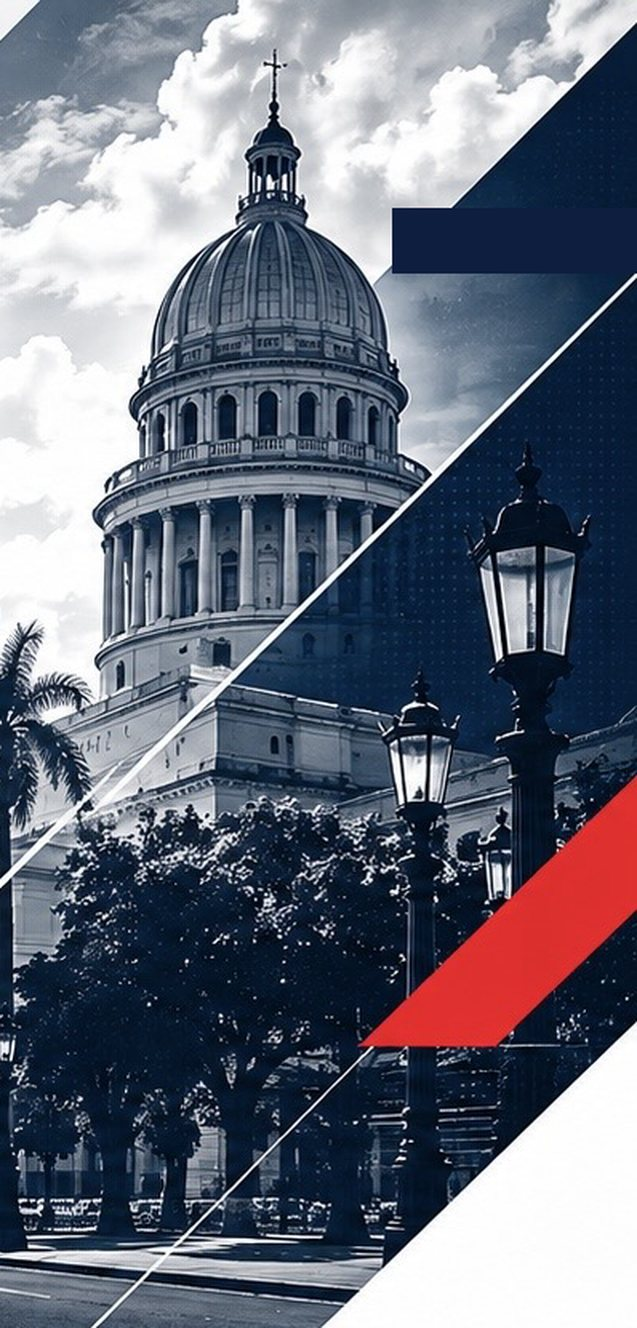
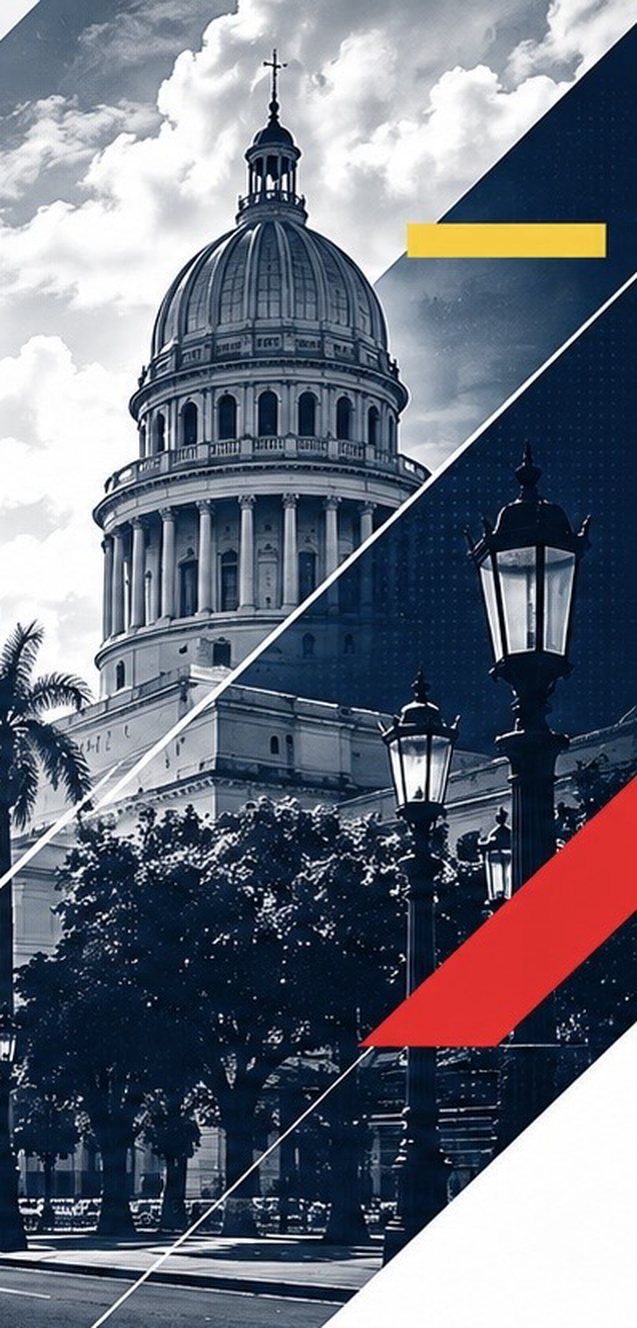
Rediseño v2: logotipo tipográfico, ornamentos y textos de la Carta
Claude-Session: https://claude.ai/code/session_01NeHkYtKpNTVMo5tPgtXgnp

Changed region(s): [[0.5965, 0.1544, 0.9545, 0.2161]]

diff --git a/web/src/styles/global.css b/web/src/styles/global.css
@@ -64,8 +64,11 @@ h3 { font-size: 1.12rem; line-height: 1.25; margin: 0 0 6px; font-weight: 700; }
 .cabecera .contenedor { display: flex; align-items: center; justify-content: space-between; gap: 16px; min-height: 70px; }
 .marca { display: inline-flex; align-items: center; gap: 10px; text-decoration: none; color: var(--marino); }
 .marca:hover { color: var(--marino); }
-.marca .sello { width: 44px; height: 44px; flex: none; }
-.marca .nombre { font-family: var(--display); font-weight: 800; font-size: 1.45rem; letter-spacing: .01em; line-height: 1; white-space: nowrap; }
+.logo { display: grid; font-family: "Montserrat", var(--fuente); font-weight: 900; line-height: .84; letter-spacing: -.035em; font-size: 1.42rem; text-transform: uppercase; }
+.logo .l1 { color: var(--marino); }
+.logo .l2 { color: var(--rojo); }
+.pie .logo .l1 { color: #fff; }
+.pie .logo { font-size: 2rem; }
 .nav { display: flex; gap: 2px; }
 .nav a {
   position: relative; color: var(--marino); text-decoration: none; font-weight: 600; font-size: 1rem;
@@ -87,7 +90,7 @@ h3 { font-size: 1.12rem; line-height: 1.25; margin: 0 0 6px; font-weight: 700; }
   .cabecera.abierta .nav { display: flex; }
   .nav a { padding: 12px 4px; border-top: 1px solid var(--borde); }
   .nav a::after { left: 4px; right: auto; width: 40px; }
-  .marca .nombre { font-size: 1.25rem; }
+  .logo { font-size: 1.25rem; }
 }
 
 /* sub-navegación del banco */
@@ -113,86 +116,136 @@ h3 { font-size: 1.12rem; line-height: 1.25; margin: 0 0 6px; font-weight: 700; }
 .enlace-flecha { font-weight: 700; text-transform: uppercase; font-size: .88rem; letter-spacing: .04em; color: var(--rojo); text-decoration: none; display: inline-flex; gap: 8px; align-items: center; }
 .enlace-flecha:hover { color: var(--rojo-osc); }
 
+/* ---------- ornamentos reutilizables ---------- */
+.puntos { background-image: radial-gradient(rgba(255,255,255,.22) 1.1px, transparent 1.6px); background-size: 7px 7px; }
+.puntos-oscuros { background-image: radial-gradient(rgba(11,29,63,.16) 1.1px, transparent 1.6px); background-size: 7px 7px; }
+.orn { position: absolute; display: block; pointer-events: none; z-index: 3; }
+.orn.bar-r { height: 10px; background: var(--rojo); }
+.orn.bar-a { height: 8px; background: var(--amarillo); }
+.orn.bar-b { height: 4px; background: #fff; }
+.orn.cuad { background: var(--marino); }
+.orn.raya { height: 2px; background: rgba(255,255,255,.75); transform-origin: left center; }
+.orn.raya.osc { background: rgba(11,29,63,.18); }
+.kicker { display: inline-flex; align-items: center; gap: 10px; font-weight: 700; font-size: .8rem; letter-spacing: .14em; text-transform: uppercase; color: var(--rojo); margin: 0 0 10px; }
+.kicker::before { content: ""; width: 34px; height: 4px; background: var(--rojo); }
+.kicker.claro { color: #fff; }
+.kicker.claro::before { background: var(--amarillo); }
+
 /* ---------- portada (hero) ---------- */
-.hero { position: relative; background: var(--superficie); overflow: hidden; border-bottom: 1px solid var(--borde); }
-.hero .contenedor { position: relative; display: grid; grid-template-columns: minmax(0, 1.05fr) minmax(0, .95fr); min-height: 540px; align-items: center; }
-.hero-texto { position: relative; z-index: 2; padding: 56px 24px 56px 0; }
-.hero-texto h1 { font-size: clamp(3.2rem, 8.4vw, 6.6rem); line-height: .86; margin: 0 0 18px; }
-.hero-texto .sub { font-family: var(--display); font-weight: 700; text-transform: uppercase; font-size: clamp(1.05rem, 2vw, 1.4rem); color: var(--marino); display: flex; flex-wrap: wrap; gap: 6px 14px; align-items: center; margin: 0 0 18px; }
+.hero { position: relative; background: var(--superficie); overflow: hidden; border-bottom: 1px solid var(--borde); isolation: isolate; }
+.hero::before { content: ""; position: absolute; left: -6%; bottom: -1px; width: 52%; height: 120px; background: linear-gradient(100deg, transparent 0 18%, #e9ecf2 18% 40%, transparent 40% 44%, #f1f3f7 44% 70%, transparent 70%); clip-path: polygon(10% 100%, 30% 0, 100% 0, 80% 100%); opacity: .9; z-index: 0; }
+.hero .contenedor { position: relative; display: grid; grid-template-columns: minmax(0, 1.05fr) minmax(0, .95fr); min-height: 600px; align-items: center; }
+.hero-texto { position: relative; z-index: 4; padding: 64px 24px 64px 0; }
+.hero-texto h1 { font-size: clamp(3.6rem, 9.6vw, 8rem); line-height: .84; margin: 0 0 22px; letter-spacing: -.01em; }
+.hero-texto h1 .mas { color: var(--rojo); display: inline-block; transform: translateY(-.04em); }
+.hero-texto .sub { font-family: var(--display); font-weight: 700; text-transform: uppercase; font-size: clamp(1.05rem, 1.9vw, 1.38rem); color: var(--marino); display: flex; flex-wrap: wrap; gap: 6px 14px; align-items: center; margin: 0 0 20px; }
 .hero-texto .sub .punto { width: 8px; height: 8px; border-radius: 50%; background: var(--rojo); display: inline-block; }
-.hero-texto p { font-size: 1.18rem; max-width: 46ch; color: var(--texto-2); margin: 0; }
-.hero-imagen { position: absolute; top: 0; right: 0; bottom: 0; width: 50%; z-index: 1; }
-.hero-imagen img { width: 100%; height: 100%; object-fit: cover; object-position: center 30%; clip-path: polygon(22% 0, 100% 0, 100% 100%, 0 100%); }
-.hero-imagen::before { content: ""; position: absolute; inset: 0; background: linear-gradient(115deg, transparent 0 60%, rgba(11, 29, 63, .9) 60% 100%); z-index: 1; pointer-events: none; }
-.hero-imagen .lista-vertical { position: absolute; right: 28px; top: 50%; transform: translateY(-50%); z-index: 2; color: #fff; font-family: var(--display); font-weight: 700; text-transform: uppercase; font-size: 1.15rem; line-height: 1.3; letter-spacing: .03em; margin: 0; padding: 0; list-style: none; }
-.hero-imagen .lista-vertical::after { content: ""; display: block; width: 46px; height: 5px; background: var(--rojo); margin-top: 12px; }
-.franja { position: absolute; z-index: 3; display: block; }
-.franja.r1 { width: 80px; height: 10px; background: var(--rojo); left: 51%; top: 22%; }
-.franja.a1 { width: 120px; height: 8px; background: var(--amarillo); right: 7%; top: 9%; }
-.franja.a2 { width: 64px; height: 8px; background: var(--amarillo); left: 47%; bottom: 13%; }
-.franja.n1 { width: 26px; height: 26px; background: var(--marino); left: 53%; bottom: 21%; }
+.hero-texto .lema-carta { font-family: var(--display); font-weight: 800; text-transform: uppercase; font-size: clamp(1.25rem, 2.2vw, 1.6rem); line-height: 1.05; color: var(--marino); margin: 0 0 14px; }
+.hero-texto .lema-carta span { color: var(--rojo); }
+.hero-texto p { font-size: 1.12rem; max-width: 48ch; color: var(--texto-2); margin: 0; }
+.hero-arte { position: absolute; top: 0; right: 0; bottom: 0; width: 54%; z-index: 1; }
+.hero-arte .foto { position: absolute; inset: 0; clip-path: polygon(26% 0, 100% 0, 100% 100%, 0 100%); overflow: hidden; }
+.hero-arte .foto img { width: 100%; height: 100%; object-fit: cover; object-position: 30% 22%; filter: grayscale(1) contrast(1.08) brightness(1.02); }
+.hero-arte .foto::after { content: ""; position: absolute; inset: 0; background: linear-gradient(180deg, rgba(11,29,63,.05), rgba(11,29,63,.35)); }
+.hero-arte .panel-marino { position: absolute; top: 0; bottom: 0; right: 0; width: 46%; background-color: rgba(11,29,63,.93); clip-path: polygon(58% 0, 100% 0, 100% 100%, 0 100%); }
+.hero-arte .franja-gris { position: absolute; top: 0; bottom: 0; left: 12%; width: 22%; background: linear-gradient(180deg, rgba(255,255,255,.55), rgba(255,255,255,.15)); clip-path: polygon(70% 0, 100% 0, 30% 100%, 0 100%); mix-blend-mode: screen; }
+.hero-arte .paralelo-rojo { position: absolute; right: 0; bottom: 14%; width: 26%; height: 15%; background: var(--rojo); clip-path: polygon(45% 0, 100% 0, 100% 100%, 0 100%); }
+.hero-arte .paralelo-blanco { position: absolute; left: 0; bottom: 0; width: 42%; height: 28%; background: var(--superficie); clip-path: polygon(0 100%, 62% 0, 100% 0, 38% 100%); opacity: .95; }
+.hero-arte .lista-vertical { position: absolute; right: 30px; top: 50%; transform: translateY(-50%); z-index: 4; color: #fff; font-family: var(--display); font-weight: 800; text-transform: uppercase; font-size: 1.25rem; line-height: 1.25; letter-spacing: .03em; margin: 0; padding: 0; list-style: none; text-align: left; }
+.hero-arte .lista-vertical::after { content: ""; display: block; width: 46px; height: 5px; background: var(--rojo); margin-top: 14px; }
 @media (max-width: 860px) {
   .hero .contenedor { grid-template-columns: 1fr; min-height: 0; }
-  .hero-texto { padding: 36px 0 28px; }
-  .hero-imagen { position: relative; width: auto; height: 300px; margin: 0 -16px; }
-  .hero-imagen img { clip-path: polygon(0 12%, 100% 0, 100% 100%, 0 100%); }
-  .hero-imagen::before { background: linear-gradient(115deg, transparent 0 62%, rgba(11, 29, 63, .88) 62% 100%); }
-  .hero-imagen .lista-vertical { font-size: .8rem; right: 14px; }
-  .franja { display: none; }
+  .hero-texto { padding: 40px 0 30px; }
+  .hero-arte { position: relative; width: auto; height: 340px; }
+  .hero-arte .foto { clip-path: polygon(0 10%, 100% 0, 100% 100%, 0 100%); }
+  .hero-arte .lista-vertical { font-size: .95rem; right: 16px; }
+  .hero .orn.escritorio, .hero::before { display: none; }
 }
 
+/* ---------- principio VOZ + VOTO ---------- */
+.principio { display: grid; grid-template-columns: minmax(0, 1fr) auto minmax(0, 1fr); gap: 0; align-items: stretch; margin-top: 8px; }
+.principio .col { background: var(--superficie); padding: 30px 30px 28px; position: relative; overflow: hidden; border-top: 6px solid var(--marino); }
+.principio .col.voto { border-top-color: var(--rojo); }
+.principio .col h3 { font-family: var(--display); font-weight: 800; font-size: 3.4rem; line-height: .9; margin: 0 0 10px; color: var(--marino); }
+.principio .col.voto h3 { color: var(--rojo); }
+.principio .col p { margin: 0; color: var(--texto-2); font-size: 1.05rem; }
+.principio .col::after { content: ""; position: absolute; right: -30px; bottom: -30px; width: 140px; height: 140px; background-image: radial-gradient(rgba(11,29,63,.14) 1.1px, transparent 1.6px); background-size: 7px 7px; transform: rotate(45deg); }
+.principio .signo { display: grid; place-items: center; width: 74px; background: var(--rojo); color: #fff; font-family: var(--display); font-weight: 800; font-size: 3.4rem; }
+@media (max-width: 760px) { .principio { grid-template-columns: 1fr; } .principio .signo { width: auto; height: 54px; font-size: 2.4rem; } }
+.nota-principio { margin: 16px 0 0; font-family: var(--display); font-weight: 700; text-transform: uppercase; font-size: 1.15rem; color: var(--marino); max-width: 60ch; }
+
 /* cabecera de sección (páginas interiores) */
-.banda { background: var(--superficie); border-bottom: 1px solid var(--borde); position: relative; overflow: hidden; }
-.banda .contenedor { position: relative; padding-top: 44px; padding-bottom: 40px; }
-.banda h1 { font-size: clamp(2.6rem, 7vw, 4.8rem); margin: 0 0 6px; }
-.banda .lema { font-family: var(--display); font-weight: 700; text-transform: uppercase; color: var(--marino); font-size: 1.2rem; margin: 0 0 14px; letter-spacing: .02em; }
-.banda-fondo { position: absolute; right: 0; top: 0; bottom: 0; width: 40%; background: var(--marino); clip-path: polygon(30% 0, 100% 0, 100% 100%, 0 100%); }
-.banda-fondo img { width: 100%; height: 100%; object-fit: cover; opacity: .55; filter: grayscale(.2); }
-.banda-fondo::after { content: ""; position: absolute; left: 22%; top: 30px; width: 90px; height: 9px; background: var(--rojo); }
-.banda-fondo .texto-lateral { position: absolute; right: 28px; bottom: 32px; color: #fff; font-family: var(--display); font-weight: 700; text-transform: uppercase; font-size: 1.15rem; line-height: 1.2; max-width: 14ch; text-align: right; }
-.banda .contenido-banda { position: relative; z-index: 2; max-width: 58%; }
-.banda .cifra-grande { font-family: var(--display); font-weight: 800; font-size: 4rem; line-height: .9; color: var(--marino); margin-top: 10px; }
-.banda .cifra-grande small { display: block; font-size: 1.05rem; letter-spacing: .04em; }
-.banda .cifra-grande::before { content: ""; display: inline-block; width: 6px; height: 46px; background: var(--rojo); transform: skewX(-18deg); margin-right: 10px; vertical-align: -4px; }
+.banda { background: var(--superficie); border-bottom: 1px solid var(--borde); position: relative; overflow: hidden; isolation: isolate; }
+.banda .contenedor { position: relative; padding-top: 48px; padding-bottom: 44px; min-height: 340px; display: flex; align-items: center; }
+.banda h1 { font-size: clamp(2.8rem, 7.4vw, 5.4rem); line-height: .86; margin: 0 0 10px; }
+.banda .lema { font-family: var(--display); font-weight: 700; text-transform: uppercase; color: var(--marino); font-size: 1.22rem; margin: 0 0 14px; letter-spacing: .02em; }
+.banda-fondo { position: absolute; right: 0; top: 0; bottom: 0; width: 44%; z-index: 0; }
+.banda-fondo .foto { position: absolute; inset: 0; clip-path: polygon(30% 0, 100% 0, 100% 100%, 0 100%); overflow: hidden; background: var(--marino); }
+.banda-fondo .foto img { width: 100%; height: 100%; object-fit: cover; filter: grayscale(1) contrast(1.05); opacity: .8; }
+.banda-fondo .panel-marino { position: absolute; top: 0; bottom: 0; right: 0; width: 44%; background-color: rgba(11,29,63,.92); clip-path: polygon(52% 0, 100% 0, 100% 100%, 0 100%); }
+.banda-fondo .franja-gris { position: absolute; top: 0; bottom: 0; left: 18%; width: 18%; background: rgba(255,255,255,.45); clip-path: polygon(70% 0, 100% 0, 30% 100%, 0 100%); }
+.banda-fondo .texto-lateral { position: absolute; right: 26px; top: 50%; transform: translateY(-50%); z-index: 3; color: #fff; font-family: var(--display); font-weight: 800; text-transform: uppercase; font-size: 1.15rem; line-height: 1.22; margin: 0; padding: 0; list-style: none; }
+.banda-fondo .texto-lateral::after { content: ""; display: block; width: 40px; height: 5px; background: var(--rojo); margin-top: 12px; }
+.banda .contenido-banda { position: relative; z-index: 2; max-width: 56%; }
+.banda .cifra-grande { font-family: var(--display); font-weight: 800; font-size: 4.4rem; line-height: .9; color: var(--marino); margin-top: 12px; display: flex; align-items: flex-end; gap: 12px; }
+.banda .cifra-grande::before { content: ""; width: 7px; height: 60px; background: var(--rojo); transform: skewX(-18deg); }
+.banda .cifra-grande small { display: block; font-size: 1.05rem; letter-spacing: .04em; padding-bottom: 6px; }
 @media (max-width: 760px) {
-  .banda-fondo { position: relative; width: auto; height: 120px; margin: 0; clip-path: polygon(0 18%, 100% 0, 100% 100%, 0 100%); }
-  .banda-fondo .texto-lateral { display: none; }
+  .banda .contenedor { min-height: 0; display: block; padding-bottom: 28px; }
+  .banda-fondo { position: relative; width: auto; height: 160px; }
+  .banda-fondo .foto { clip-path: polygon(0 16%, 100% 0, 100% 100%, 0 100%); }
+  .banda-fondo .texto-lateral { font-size: .9rem; right: 14px; }
   .banda .contenido-banda { max-width: none; }
-  .banda .contenedor { padding-bottom: 28px; }
+  .banda .orn { display: none; }
 }
 
 /* ---------- pilares 01 02 03 ---------- */
-.pilares { display: grid; grid-template-columns: repeat(3, minmax(0, 1fr)); gap: 24px; margin: 0; padding: 0; list-style: none; }
-.pilares li { padding: 8px 4px 8px 24px; border-left: 3px solid var(--rojo); }
-.pilares .num { font-family: var(--display); font-weight: 800; font-size: 4.4rem; line-height: .9; color: var(--marino); display: block; }
-.pilares .barra { width: 34px; height: 5px; margin: 12px 0 10px; background: var(--amarillo); }
-.pilares h3 { font-family: var(--display); text-transform: uppercase; font-size: 1.6rem; font-weight: 800; color: var(--marino); margin: 0 0 6px; }
-.pilares p { margin: 0 0 12px; color: var(--texto-2); }
+.pilares { display: grid; grid-template-columns: repeat(3, minmax(0, 1fr)); gap: 24px; margin: 0; padding: 0; list-style: none; counter-reset: pilar; }
+.pilares li { padding: 6px 4px 6px 24px; border-left: 3px solid var(--rojo); position: relative; }
+.pilares .num { font-family: var(--display); font-weight: 800; font-size: 5rem; line-height: .86; color: var(--marino); display: block; }
+.pilares .barra { width: 34px; height: 5px; margin: 12px 0 12px; background: var(--amarillo); }
+.pilares h3 { font-family: var(--display); text-transform: uppercase; font-size: 1.7rem; font-weight: 800; color: var(--marino); margin: 0 0 8px; }
+.pilares p { margin: 0 0 14px; color: var(--texto-2); }
 @media (max-width: 820px) { .pilares { grid-template-columns: 1fr; } }
 
 /* bloque marino con imagen */
-.bloque-marino { background: var(--marino); color: #e5ebf7; position: relative; overflow: hidden; margin-top: 52px; }
-.bloque-marino .contenedor { display: grid; grid-template-columns: minmax(0, 1fr) minmax(0, 1.1fr); gap: 40px; align-items: center; padding-top: 56px; padding-bottom: 56px; position: relative; z-index: 1; }
-.bloque-marino .imagen { position: absolute; left: 0; top: 0; bottom: 0; width: 48%; }
-.bloque-marino .imagen img { width: 100%; height: 100%; object-fit: cover; clip-path: polygon(0 0, 100% 0, 78% 100%, 0 100%); opacity: .55; }
-.bloque-marino .titulo { font-family: var(--display); font-weight: 800; text-transform: uppercase; color: #fff; font-size: clamp(1.8rem, 3.4vw, 2.6rem); line-height: .98; position: relative; z-index: 2; margin: 0; }
-.bloque-marino .titulo::after { content: ""; display: block; width: 50px; height: 6px; background: var(--rojo); margin-top: 16px; }
-.bloque-marino p { margin: 0 0 14px; font-size: 1.1rem; }
+.bloque-marino { background: var(--marino); color: #e5ebf7; position: relative; overflow: hidden; margin-top: 56px; isolation: isolate; }
+.bloque-marino .contenedor { display: grid; grid-template-columns: minmax(0, 1fr) minmax(0, 1.1fr); gap: 48px; align-items: center; padding-top: 64px; padding-bottom: 64px; position: relative; z-index: 2; }
+.bloque-marino .imagen { position: absolute; left: 0; top: 0; bottom: 0; width: 48%; z-index: 0; }
+.bloque-marino .imagen img { width: 100%; height: 100%; object-fit: cover; clip-path: polygon(0 0, 100% 0, 76% 100%, 0 100%); filter: grayscale(1) contrast(1.1); opacity: .5; }
+.bloque-marino .imagen::after { content: ""; position: absolute; inset: 0; background: linear-gradient(90deg, rgba(11,29,63,.2), rgba(11,29,63,.65)); clip-path: polygon(0 0, 100% 0, 76% 100%, 0 100%); }
+.bloque-marino .textura { position: absolute; right: 0; top: 0; bottom: 0; width: 40%; z-index: 1; clip-path: polygon(30% 0, 100% 0, 100% 100%, 0 100%); opacity: .6; }
+.bloque-marino .titulo { font-family: var(--display); font-weight: 800; text-transform: uppercase; color: #fff; font-size: clamp(2rem, 3.8vw, 3rem); line-height: .95; position: relative; margin: 0; }
+.bloque-marino .titulo::after { content: ""; display: block; width: 56px; height: 7px; background: var(--rojo); margin-top: 18px; }
+.bloque-marino p { margin: 0 0 16px; font-size: 1.1rem; }
+.bloque-marino p strong { color: #fff; }
 .bloque-marino a { color: #fff; }
 @media (max-width: 820px) {
   .bloque-marino .contenedor { grid-template-columns: 1fr; gap: 20px; }
   .bloque-marino .imagen { width: 100%; }
-  .bloque-marino .imagen img { clip-path: none; opacity: .25; }
+  .bloque-marino .imagen img, .bloque-marino .imagen::after { clip-path: none; opacity: .22; }
+  .bloque-marino .orn { display: none; }
 }
 
+/* garantías */
+.garantias { list-style: none; margin: 0; padding: 0; display: grid; grid-template-columns: repeat(auto-fit, minmax(min(100%, 250px), 1fr)); gap: 14px; }
+.garantias li { background: var(--superficie); padding: 24px 22px 22px; position: relative; overflow: hidden; border-bottom: 4px solid var(--marino); }
+.garantias li:nth-child(2) { border-bottom-color: var(--rojo); }
+.garantias li:nth-child(3) { border-bottom-color: var(--amarillo); }
+.garantias .fi { font-size: 1.6rem; color: var(--rojo); }
+.garantias h3 { font-family: var(--display); text-transform: uppercase; font-weight: 800; font-size: 1.35rem; color: var(--marino); margin: 10px 0 6px; }
+.garantias p { margin: 0; color: var(--texto-2); font-size: .97rem; }
+.garantias li::before { content: ""; position: absolute; right: 0; top: 0; width: 70px; height: 70px; background: var(--fondo); clip-path: polygon(100% 0, 100% 100%, 0 0); }
+
 /* franja roja de cifras */
-.franja-cifras { background: var(--rojo); color: #fff; }
-.franja-cifras ul { list-style: none; margin: 0; padding: 0; display: grid; grid-template-columns: repeat(3, minmax(0, 1fr)); }
-.franja-cifras li { padding: 22px 16px; }
+.franja-cifras { background: var(--rojo); color: #fff; position: relative; overflow: hidden; }
+.franja-cifras::after { content: ""; position: absolute; right: 0; top: 0; bottom: 0; width: 22%; background: var(--rojo-osc); clip-path: polygon(40% 0, 100% 0, 100% 100%, 0 100%); }
+.franja-cifras ul { list-style: none; margin: 0; padding: 0; display: grid; grid-template-columns: repeat(3, minmax(0, 1fr)); position: relative; z-index: 1; }
+.franja-cifras li { padding: 24px 16px; }
 .franja-cifras li + li { border-left: 1px solid rgba(255,255,255,.35); }
 .franja-cifras a { color: #fff; text-decoration: none; display: flex; gap: 16px; align-items: center; }
-.franja-cifras .fi { font-size: 2rem; }
-.franja-cifras strong { display: block; font-family: var(--display); font-weight: 800; font-size: 1.7rem; line-height: 1; text-transform: uppercase; }
+.franja-cifras .fi { font-size: 2.1rem; }
+.franja-cifras strong { display: block; font-family: var(--display); font-weight: 800; font-size: 1.8rem; line-height: 1; text-transform: uppercase; }
 .franja-cifras span { font-size: .82rem; text-transform: uppercase; letter-spacing: .06em; font-weight: 600; }
 @media (max-width: 720px) { .franja-cifras ul { grid-template-columns: 1fr; } .franja-cifras li + li { border-left: 0; border-top: 1px solid rgba(255,255,255,.35); } }
 
@@ -365,3 +418,22 @@ a.etiqueta:hover { background: var(--marino); color: #fff; }
 .principios { list-style: none; margin: 18px 0; padding: 0; display: grid; gap: 14px; grid-template-columns: repeat(auto-fit, minmax(min(100%, 300px), 1fr)); }
 .principios li { background: var(--superficie); border-left: 4px solid var(--marino); padding: 20px 22px; }
 .principios strong { display: block; font-family: var(--display); text-transform: uppercase; font-size: 1.25rem; color: var(--marino); margin-bottom: 4px; }
+
+/* ---------- ornamentos del banco ---------- */
+.categoria { position: relative; overflow: hidden; }
+.categoria::after { content: ""; position: absolute; right: 0; top: 0; width: 64px; height: 64px; background-image: radial-gradient(rgba(11,29,63,.16) 1.1px, transparent 1.6px); background-size: 7px 7px; clip-path: polygon(100% 0, 100% 100%, 0 0); }
+.categoria::before { content: ""; position: absolute; left: 18px; bottom: 0; width: 36px; height: 4px; background: var(--amarillo); }
+.tarjeta.consolidada { overflow: hidden; }
+.tarjeta.consolidada::before { content: ""; position: absolute; right: 0; top: 0; width: 46px; height: 46px; background: var(--fondo); clip-path: polygon(100% 0, 100% 100%, 0 0); transition: background .15s; }
+.tarjeta.consolidada:hover::before { background: var(--rojo); }
+main.contenedor > h1:first-child, main.contenedor > .migas + h1 { position: relative; padding-top: 18px; }
+main.contenedor > h1:first-child::before { content: ""; position: absolute; left: 0; top: 0; width: 64px; height: 6px; background: var(--rojo); }
+h2::after { content: ""; display: block; width: 40px; height: 4px; background: var(--amarillo); margin-top: 10px; }
+.bloque-marino .titulo + div h2::after, .aviso-proximo h2::after, .pie h2::after, .consulta-tarjeta h2::after, .cuestion h2::after, .principio h2::after { display: none; }
+.subnav { position: relative; }
+.subnav::after { content: ""; position: absolute; right: 0; top: 0; bottom: 0; width: 120px; background: var(--rojo); clip-path: polygon(40% 0, 100% 0, 100% 100%, 0 100%); }
+@media (max-width: 760px) { .subnav::after { display: none; } }
+.pie { position: relative; overflow: hidden; }
+.pie::before { content: ""; position: absolute; right: -40px; top: 0; bottom: 0; width: 280px; background-image: radial-gradient(rgba(255,255,255,.12) 1.1px, transparent 1.6px); background-size: 7px 7px; clip-path: polygon(40% 0, 100% 0, 100% 100%, 0 100%); }
+.pie::after { content: ""; position: absolute; left: 0; top: 0; width: 180px; height: 6px; background: var(--amarillo); }
+.pie .contenedor { position: relative; z-index: 1; }
